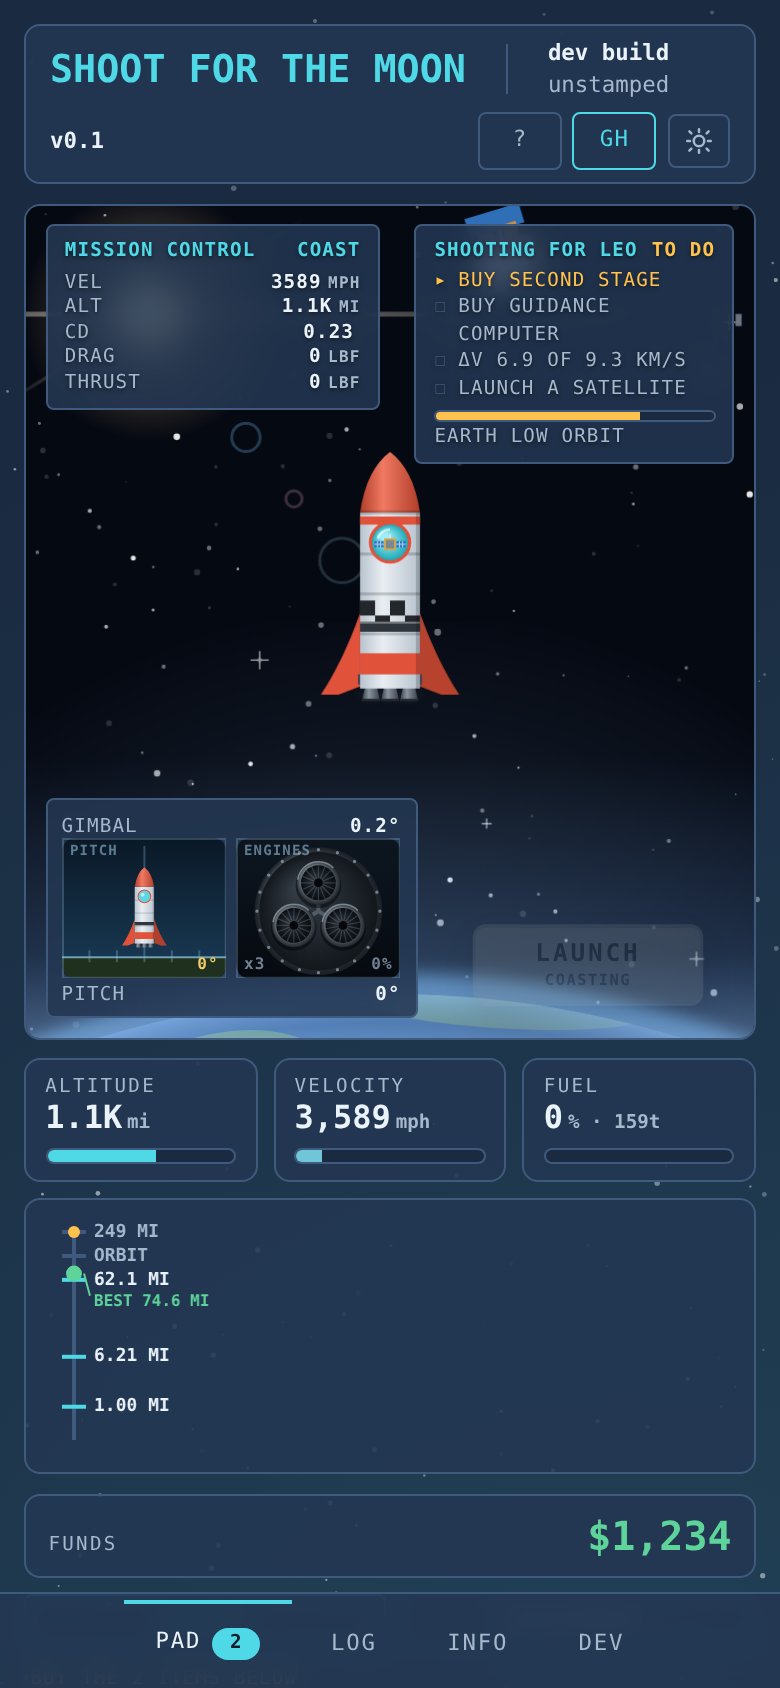
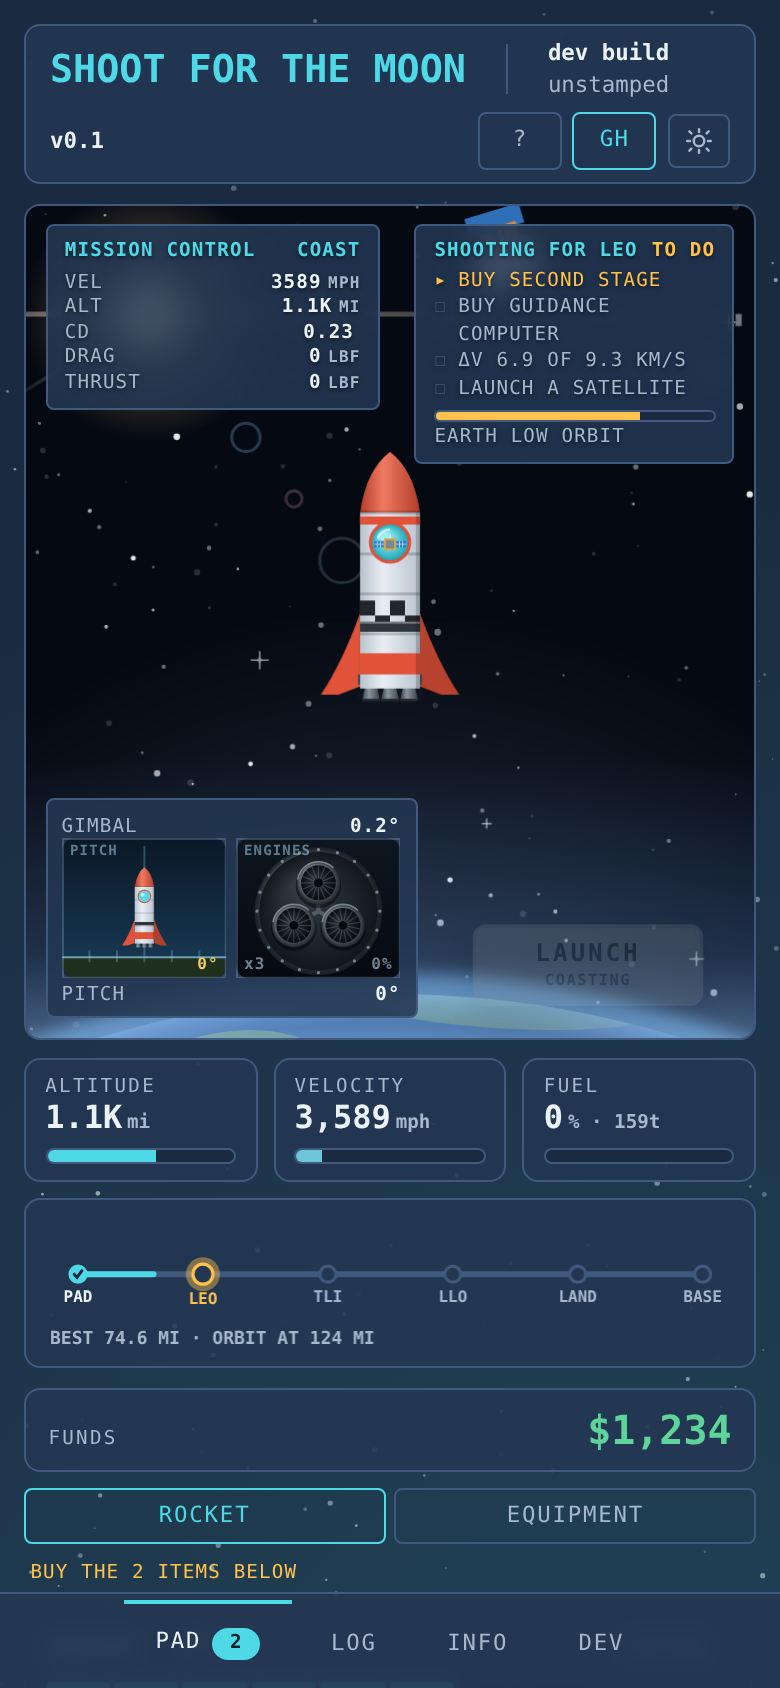
A9 · The altitude readout becomes the journey
The user declined to give direction here — "you pick how to make that better
since we know the full game now" — so this is a design decision, and it is
written down in docs/studies/README.md as one.

The old readout was a log-scale altimeter. That was right when the game was
"go high". The game is a five-rung ladder, and after the first mission "249 MI"
tells the player nothing about where they stand in it. The column now shows the
journey: six stations from the pad to a Moon base of 10,000, filled as far as
you have come, the ship riding the live segment during a flight, and one
caption carrying whichever number still means something — best altitude, then
distance to the Moon, then population.

Two things fell out of it.

The fill inside the current rung is the Δv the rocket delivers against the Δv
the next mission needs — the thing the player is actually grinding — so the
column now answers "how far through the whole game am I", which nothing else
did.

And it reads the box it is given: vertical on desktop, horizontal on a phone,
where the strip is full width and 7.5rem tall and the old vertical line threw
that width away. Sized to what the rail actually needs, the reclaimed height
brings the shop above the fold on a phone.

Rejected: keeping the altimeter and adding mission ticks to it — a log altitude
axis puts LEO and the Moon almost on top of each other, so the two scales
fight; and a plain percentage bar, which gives no sense of place.
[…]

Changed region(s): [[0.0308, 0.7085, 0.9538, 0.955], [0.3077, 0.9242, 0.3692, 0.955], [0.9538, 0.8009, 0.9846, 0.8318]]

diff --git a/app/shoot-for-the-moon.html b/app/shoot-for-the-moon.html
@@ -654,7 +654,7 @@ body {
   @media (max-width: 860px) {
     .stage { grid-template-columns: minmax(0, 1fr); }
     .hud { order: 2; display: grid; grid-template-columns: repeat(3, minmax(0, 1fr)); }
-    .hud .ladder { grid-column: 1 / -1; min-height: 7.5rem; }
+    .hud .ladder { grid-column: 1 / -1; min-height: 4.2rem; }
     .gauge .v { font-size: 1rem; }
     .shop { order: 3; }
     .scenebox { order: 1; }
@@ -713,7 +713,7 @@ body {
           <div class="v" id="g-spd">0<small>mph</small></div><div class="bar spd"><i id="b-spd"></i></div></div>
         <div class="gauge" title="Fuel left in the tank"><div class="k">Fuel</div>
           <div class="v" id="g-fuel">100<small>%</small></div><div class="bar fuel"><i id="b-fuel"></i></div></div>
-        <div class="gauge ladder" id="ladder-box" title="The mission ladder — it re-scales as you advance: altitude, then distance to the Moon, then the base population.">
+        <div class="gauge ladder" id="ladder-box" title="The journey: six stations from the pad to a Moon base of 10,000. Filled as far as you have come; the amber dot is the ship in flight.">
           <canvas id="ladder"></canvas></div>
       </aside>
 
@@ -6497,45 +6497,104 @@ function drawGround() {
 const ladder = $('ladder');
 /* T31 · the ladder measures whatever the current mission is about.
    Missions 0–1: the climb out of the atmosphere. 2–3: the distance to the Moon. 4–5: the base's population. */
-function ladderScale() {
-  const m = S.mission;
-  if (m >= 4) return { kind: 'pop', title: 'People', max: MISSIONS[5].population,
-    ticks: [[250, '250'], [1000, '1,000'], [2500, '2,500'], [5000, '5,000'], [10000, '10,000 · DONE']],
-    val: S.population, got: v => S.population >= v };
-  if (m >= 2) return { kind: 'far', title: 'To the Moon', max: MOON_KM,
-    ticks: [[200, 'LEO'], [2000, fmtMi(2000) + ' mi'], [36000, 'GEO'], [200000, 'HALFWAY'], [MOON_KM, 'MOON']],
-    val: S.bestKm, got: v => S.bestKm >= v * 0.999 };
-  return { kind: 'alt', title: 'Altitude', max: 400,
-    ticks: MILESTONES.filter(x => x.km <= 400).map(x => [x.km, fmtMi(x.km) + ' mi']).concat([[200, 'ORBIT']]),
-    val: S.bestKm, got: v => S.milestones.includes(v) || S.bestKm >= v };
+/* A9 · the journey ladder.
+   The old readout was a log-scale altimeter. That made sense when the game was "go high", but the
+   game is a five-rung ladder — LEO, lunar injection, lunar orbit, a landing, a base of 10,000 — and
+   after the first mission "249 MI" tells the player nothing about where they are in it. So the
+   column now shows the journey: six stations from the pad to the base, filled as far as you have
+   come, with the ship travelling the live segment and one caption carrying the number that actually
+   means something at this point in the game.
+   It reads the box it is given: tall on desktop it runs bottom-to-top, wide on a phone (where the
+   strip is full width and 7.5rem tall) it runs left-to-right, which is the space the old vertical
+   line threw away. */
+function ladderProgress() {
+  /* 0 at the pad, 5 at the base. The fraction inside the current rung is the Δv the rocket delivers
+     against the Δv the next mission needs — the thing the player is actually grinding — and it is
+     held just short of the node until the mission is really achieved. */
+  const m = clamp(S.mission, 0, 5);
+  if (m >= 5) return { u: 5, frac: clamp((S.population || 0) / MISSIONS[5].population, 0, 1) };
+  const need = MISSIONS[m + 1].dvReq, have = (plan || replan()).f.dv;
+  const gotKit = MISSIONS[m + 1].equip.every(k => S.equipment[k]);
+  let frac = clamp(have / need, 0, 1) * 0.82 + (gotKit ? 0.18 : 0);
+  return { u: m + clamp(frac, 0, 0.985), frac };
+}
+/* Long form first, then shorter ones — the column is narrow on desktop, so the caller picks the
+   widest that actually fits rather than letting it run off the edge. */
+function ladderCaption() {
+  const m = S.mission, pop = (S.population || 0).toLocaleString('en-US');
+  if (m >= 5) return [[pop + ' of 10,000 people', pop + ' / 10,000', pop], true];
+  if (m >= 4) return [['base landed · ' + pop + ' people', 'landed · ' + pop, pop], true];
+  if (m >= 1) return [[fmtMi(S.bestKm) + ' mi of ' + fmtMi(MOON_KM) + ' to the Moon',
+                       fmtMi(S.bestKm) + ' / ' + fmtMi(MOON_KM) + ' mi', fmtMi(S.bestKm) + ' mi'], false];
+  return [['best ' + fmtMi(S.bestKm) + ' mi · orbit at ' + fmtMi(200) + ' mi',
+           'best ' + fmtMi(S.bestKm) + ' of ' + fmtMi(200) + ' mi', 'best ' + fmtMi(S.bestKm) + ' mi'], false];
 }
 function drawLadder() {
   const box = ladder.getBoundingClientRect(), d = Math.min(3, window.devicePixelRatio || 1);
   const W = Math.max(40, box.width), H = Math.max(60, box.height);
-  ladder.width = W * d; ladder.height = H * d; const c = ladder.getContext('2d'); c.setTransform(d, 0, 0, d, 0, 0);
+  ladder.width = W * d; ladder.height = H * d;
+  const c = ladder.getContext('2d'); c.setTransform(d, 0, 0, d, 0, 0);
   const cs = getComputedStyle(document.documentElement), col = k => cs.getPropertyValue(k).trim();
-  const sc = ladderScale();
-  const y = v => H - 8 - clamp(Math.log10(Math.max(0, v) + 1) / Math.log10(sc.max + 1), 0, 1) * (H - 16);
-  c.strokeStyle = col('--h-border'); c.lineWidth = 2; c.beginPath(); c.moveTo(14, 8); c.lineTo(14, H - 8); c.stroke();
-  c.font = '600 9px ' + col('--wa-font-family-heading'); c.textBaseline = 'middle';
-  const rows = sc.ticks.map(([v, label]) => ({ v, label, yy: y(v), ly: y(v) })).sort((a, b) => b.yy - a.yy);
-  for (let i = 1; i < rows.length; i++) if (rows[i - 1].ly - rows[i].ly < 10) rows[i].ly = rows[i - 1].ly - 10;
-  for (const r of rows) { const got = sc.got(r.v);
-    c.strokeStyle = got ? col('--h-accent') : col('--h-border'); c.beginPath(); c.moveTo(8, r.yy); c.lineTo(20, r.yy); c.stroke();
-    if (Math.abs(r.ly - r.yy) > 1) { c.beginPath(); c.moveTo(20, r.yy); c.lineTo(23, r.ly); c.stroke(); }
-    c.fillStyle = got ? col('--h-text') : col('--h-text-muted'); c.fillText(r.label.toUpperCase(), 24, r.ly); }
-  if (sc.val > 0) { const yb = y(sc.val); c.fillStyle = col('--h-positive'); c.beginPath(); c.arc(14, yb, 4, 0, 7); c.fill();
-    c.font = '700 8px ' + col('--wa-font-family-heading');
-    const tag = sc.kind === 'pop' ? sc.val.toLocaleString('en-US') + ' NOW' : 'BEST ' + (sc.val >= MOON_KM ? 'MOON' : fmtMi(sc.val) + ' MI');
-    /* Step down past any tick label within a line-height, and stay inside the strip. */
-    let ty = yb;
-    for (const r of rows) if (Math.abs(r.ly - ty) < 10) ty = r.ly + 11;
-    ty = clamp(ty, 10, H - 6);
-    c.fillText(tag, 24, ty);
-    if (Math.abs(ty - yb) > 2) { c.strokeStyle = col('--h-positive'); c.lineWidth = 1;
-      c.beginPath(); c.moveTo(19, yb); c.lineTo(22, ty - 3); c.stroke(); } }
-  /* live position during a flight */
-  if (sc.kind !== 'pop' && (phase === 'flight' || phase === 'descent')) { c.fillStyle = col('--h-warning'); c.beginPath(); c.arc(14, y(view.km), 3, 0, 7); c.fill(); }
+  const horiz = W > H * 1.25;
+  const stops = ['PAD', MISSIONS[1].short, MISSIONS[2].short, MISSIONS[3].short, MISSIONS[4].short, MISSIONS[5].short];
+  const P = ladderProgress(), [caps, capOk] = ladderCaption();
+  const now = performance.now();
+
+  /* the rail, in whichever direction the box is longer */
+  const capH = 13;                                   // room kept for the caption line
+  const pad = 16, len = (horiz ? W : H - capH) - pad * 2;
+  const at = u => pad + (u / 5) * len;               // distance along the rail, 0..5 stations
+  const cross = horiz ? (H - capH) / 2 + 2 : 16;     // the rail's fixed axis: centred / left margin
+  const XY = u => horiz ? [at(u), cross] : [cross, H - capH - pad - (at(u) - pad)];
+
+  c.lineCap = 'round';
+  c.strokeStyle = col('--h-border'); c.lineWidth = 3;
+  c.beginPath(); { const a = XY(0), b = XY(5); c.moveTo(a[0], a[1]); c.lineTo(b[0], b[1]); } c.stroke();
+  /* how far you have come, over the top of it */
+  c.strokeStyle = col('--h-accent'); c.lineWidth = 3;
+  c.beginPath(); { const a = XY(0), b = XY(P.u); c.moveTo(a[0], a[1]); c.lineTo(b[0], b[1]); } c.stroke();
+
+  /* the live ship, riding the segment it is on */
+  if (phase === 'flight' || phase === 'descent') {
+    const fl = clamp(view.km / Math.max(1, S.mission >= 1 ? MOON_KM : 200), 0, 1);
+    const su = clamp(S.mission + fl * (S.mission >= 1 ? 5 - S.mission : 1), 0, 5);
+    const s = XY(su);
+    c.fillStyle = col('--h-warning');
+    c.beginPath(); c.arc(s[0], s[1], 3.5, 0, 7); c.fill();
+  }
+
+  /* the stations */
+  c.font = '700 8px ' + col('--wa-font-family-heading');
+  c.textAlign = horiz ? 'center' : 'left'; c.textBaseline = horiz ? 'top' : 'middle';
+  for (let i = 0; i < 6; i++) {
+    const [x, y] = XY(i), done = i <= S.mission, next = i === S.mission + 1;
+    const r = next ? 5 : 4;
+    if (next) {                                       // the one being worked toward breathes
+      c.globalAlpha = 0.30 + 0.22 * (0.5 + 0.5 * Math.sin(now / 620));
+      c.fillStyle = col('--h-warning'); c.beginPath(); c.arc(x, y, r + 3.5, 0, 7); c.fill();
+      c.globalAlpha = 1;
+    }
+    c.beginPath(); c.arc(x, y, r, 0, 7);
+    c.fillStyle = done ? col('--h-accent') : col('--h-surface');
+    c.fill();
+    c.lineWidth = 1.6; c.strokeStyle = done ? col('--h-accent') : next ? col('--h-warning') : col('--h-border');
+    c.stroke();
+    if (done) {                                       // a tick, so achieved reads at a glance
+      c.strokeStyle = col('--h-bg'); c.lineWidth = 1.5; c.beginPath();
+      c.moveTo(x - 1.9, y); c.lineTo(x - 0.5, y + 1.6); c.lineTo(x + 2, y - 1.8); c.stroke();
+    }
+    c.fillStyle = done ? col('--h-text') : next ? col('--h-warning') : col('--h-text-muted');
+    if (horiz) c.fillText(stops[i], x, y + r + 4);
+    else c.fillText(stops[i], x + r + 6, y);
+  }
+
+  /* one caption: the number that means something right now */
+  c.textAlign = 'left'; c.textBaseline = 'alphabetic';
+  c.font = '600 9px ' + col('--wa-font-family-heading');
+  c.fillStyle = capOk ? col('--h-positive') : col('--h-text-muted');
+  let cap = caps[caps.length - 1];
+  for (const t of caps) if (c.measureText(t.toUpperCase()).width <= W - 4) { cap = t; break; }
+  c.fillText(cap.toUpperCase(), 2, H - 3);
 }
 
 /* ═══════════════════════════════════════════════════════════════════════

diff --git a/docs/QUEUE.md b/docs/QUEUE.md
@@ -40,7 +40,7 @@ below with its run number.
 - [x] A6 · "an animation of the crane grabbing with chopsticks, grabbing the ship just like SpaceX" · said 09-05 · **decided:** the tower owns the last 3 km of every descent, replacing the parachute · W19 · built #17
 - [x] A7 · "on the lunar surface: American flags, targets on the ground, make them look more like military cargo net kind of pods" · said 09-05 · **decided:** the cargo view is redrawn on the shared projection — domes, greenhouse, solar farm, four painted targets the pods land on · W20 · built #17
 - [x] A8 · "maybe there's, like, a faint trajectory line" · said 09-05 · **decided:** one overlay per view, flown solid and still-to-come dashed, tracing the exact curve each view already flies · W21 · built #17
-- [ ] A9 · "if you have anything on the altitude — I don't wanna give you advice, you pick how to make that better since we know the full game now" · said 09-05 · next — deliberately held until the tilt landed, because the tilt changes what the left column should be
+- [x] A9 · "if you have anything on the altitude — I don't wanna give you advice, you pick how to make that better since we know the full game now" · said 09-05 · **decided:** the column stops being a log altimeter and becomes the journey — six stations from the pad to a base of 10,000, filled by delivered Δv against the next mission's requirement, the ship riding the live segment, and one caption carrying whichever number means something at that point. It reads its box: vertical on desktop, horizontal on a phone, where the old vertical line wasted the full width · built #17
 - [ ] T20 · "phase 2: a base and colony on Mars, then mine the asteroid belt" · said 09-05 · parked — after the Moon; the camera-scale idea (T15) is what makes it possible
 - [x] T21 · "when it's launching, everything should get out of the way" · said 09-05 · **decided:** LAUNCH fades to a ghost in flight, the tour closes on launch, checklist already hides · built #6
 - [x] T22 · "it took too long to decelerate the rocket — say three seconds; it can be sped up, but I want ballistic curves and trajectories with drag" · said 09-05 · **decided:** coast capped at 3.5 s now; real ballistic arcs come with the pitch-over (T13c) · quick part built #6

diff --git a/docs/studies/README.md b/docs/studies/README.md
@@ -68,6 +68,27 @@ Identity unchanged: steel-blue, starfield, altitude ladder. Art direction is now
     scene is the exception at 46 fps — fill rate rather than draw count, since
     removing any one large translucent element puts it back over 60.
 
+11. Round nineteen, the altitude readout (A9). The user declined to give
+    direction — "you pick how to make that better since we know the full game
+    now" — so this is a design decision, recorded here as one. The old readout
+    was a log-scale altimeter, which was right when the game was "go high". The
+    game is a five-rung ladder, and after the first mission "249 MI" tells the
+    player nothing about where they stand in it. The column now shows the
+    journey: six stations from the pad to a Moon base of 10,000, filled as far
+    as you have come, with one caption carrying whichever number still means
+    something (best altitude, then distance to the Moon, then population).
+
+    Two things fell out of it. The fill inside the current rung is delivered Δv
+    against the next mission's requirement — so the column answers "how far
+    through the whole game am I", which nothing else did. And it reads the box
+    it is given: vertical on desktop, horizontal on a phone, where the strip is
+    full width and the old vertical line threw that width away. Reclaiming the
+    height also brought the shop above the fold on a phone.
+
+    Rejected: keeping the altimeter and adding mission ticks to it (the two
+    scales fight — a log altitude axis puts LEO and the Moon almost on top of
+    each other), and a plain percentage bar (no sense of place).
+
 ## What to decide in the design cycle
 
 - **Art direction**, shown as pictures: keep hi-res vector, or move to rendered 2D (blur halos, glow, multiply shadows) for warmth. The brain dump said "goofy, fun graphics" — the vector look is clean but not yet goofy.
